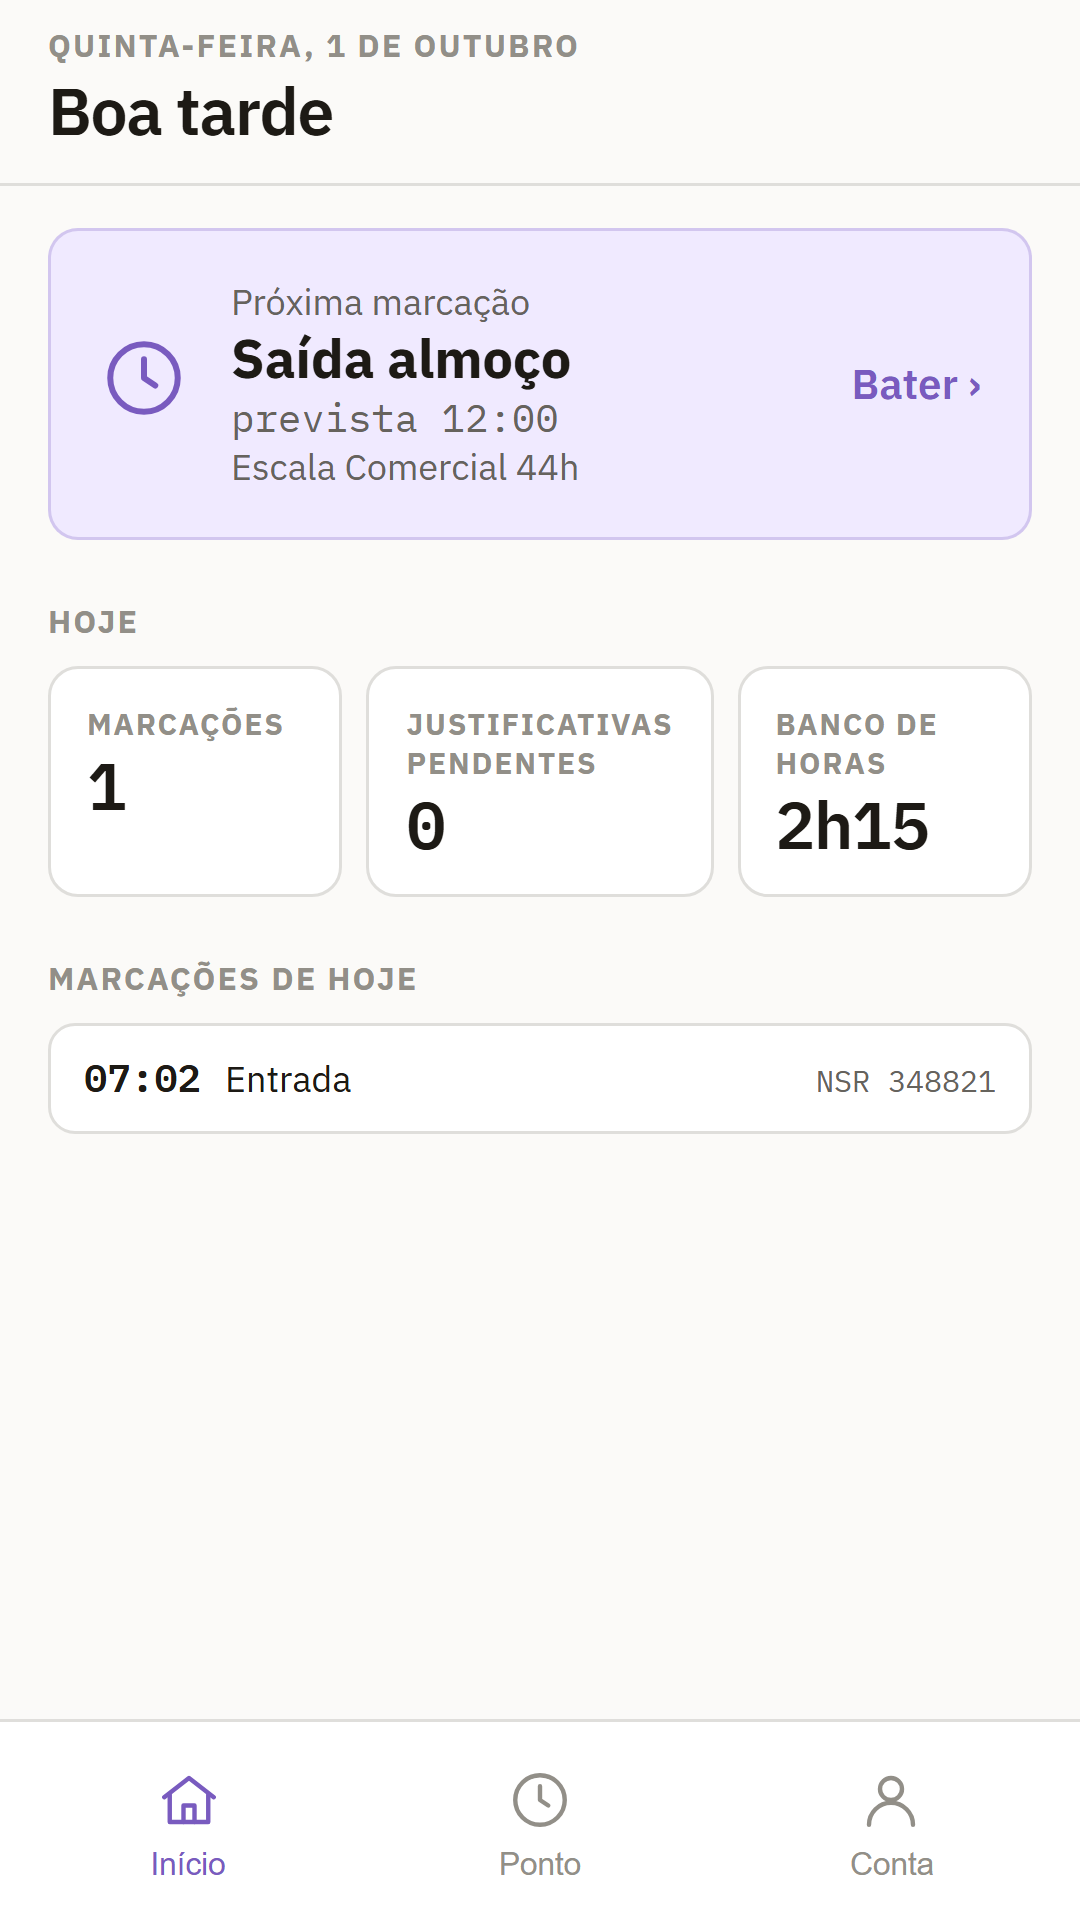
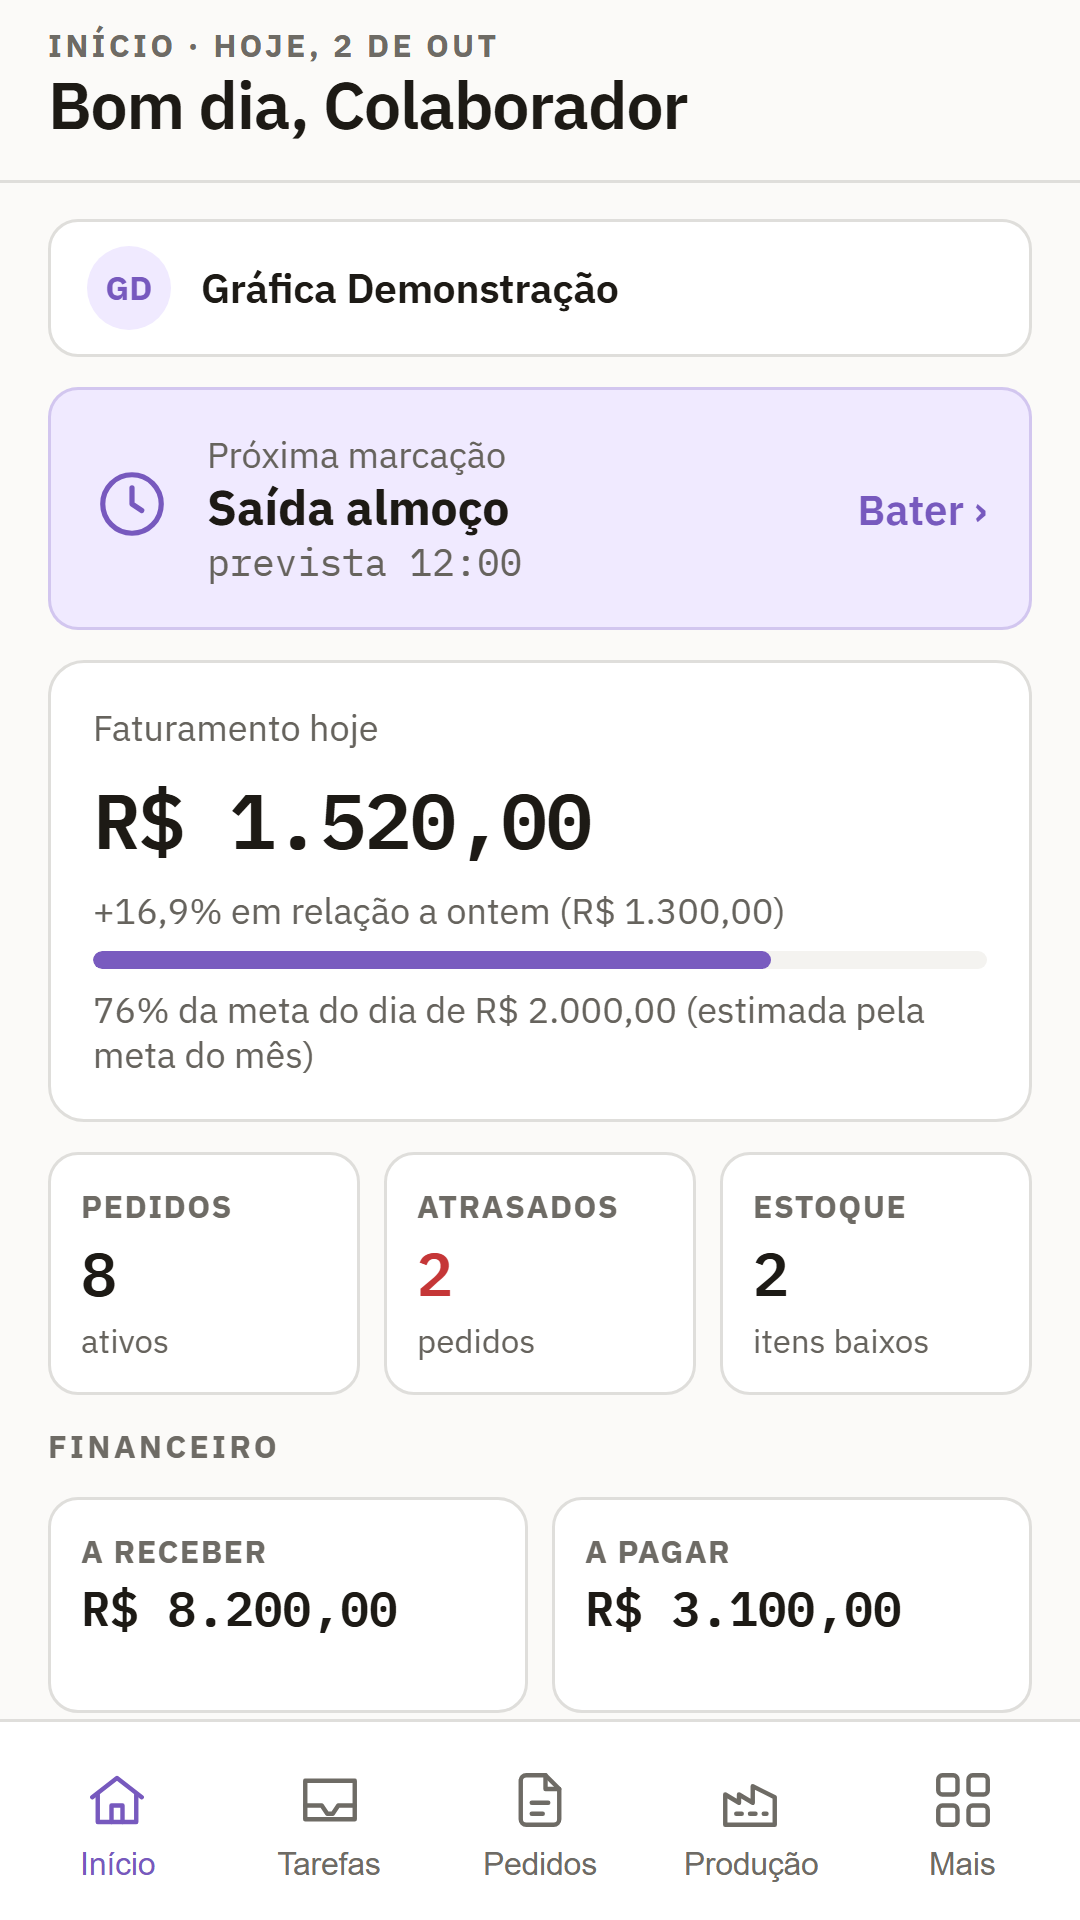
chore: screenshots de loja das 7 áreas da v1 (2º lote)

diff --git a/store-assets/screenshots/README.md b/store-assets/screenshots/README.md
@@ -1,11 +1,19 @@
-# Screenshots de loja — 1º lote (aprovado pela gestão do app em 2026-10-01)
+# Screenshots de loja — 2º lote: as 7 áreas da v1 (2026-10-02)
 
-- **Origem:** branch `fix/textos-loja` (fc43486, contém os PRs #6 e #7), `npm run build:demo`, capturado no
-  Chromium (Playwright) sobre o `www/` do build, com GPS simulado e dados fictícios do modo demonstração.
-- **Escondido só na captura:** a faixa "Modo demonstração" e a caixa de demonstração do Login (o build de loja não
-  mostra nenhuma das duas). A tela Conta ficou de fora (rodapé do build de demonstração).
-- **Tamanhos:** `android-1080x1920/` (telefone Play, 9:16) e `iphone69-1320x2868/` (iPhone 6.9"), PNG RGB sem alfa.
-- **Ordem na loja:** 00-login · 01-inicio · 02-bater-ponto · 03-meu-espelho · 04-justificar.
+- **Origem:** `main` com Tarefas (#13), contraste (#14), Pessoas (#17), Produção (#18) e Início (#19);
+  `npm run build:demo`, capturado no Chromium (Playwright) sobre o `www/` do build, tema claro, com GPS
+  simulado e dados fictícios do modo demonstração. Perfil ERP (todas as áreas), que é o que a ficha da loja
+  descreve (D9/D13).
+- **Escondido só na captura:** a faixa "Modo demonstração" e a caixa de demonstração do Login (o build de loja
+  não mostra nenhuma das duas). A tela Conta é gerada (`08-conta`) mas **não** vai à loja.
+- **Trava:** o script falha se o texto visível de uma tela de loja tiver "REP-P", "REP", "Portaria", "671",
+  "Modo demonstração" ou "dados simulados" (ressalva legal, ERP #8417; D9). Provada em 2026-10-02 rodando com a
+  faixa visível: parou em "Modo demonstração".
+- **Tamanhos:** `android-1080x1920/` (telefone Play, 9:16) e `iphone69-1320x2868/` (iPhone 6.9"), PNG RGB sem
+  alfa (tipo de cor 2, conferido).
+- **Ordem na loja** (8 = máximo da Play): 00-login · 01-inicio · 02-tarefas · 03-pedidos · 04-producao ·
+  05-pessoas · 06-bater-ponto · 07-meu-espelho. "Justificar", que estava no 1º lote, saiu para caber no limite.
 - **Refazer:** `node store-assets/screenshots/capturar.mjs <www> <saída> --sem-faixa` (usa o Playwright do repo
-  oimpresso.com; ajuste o caminho do `createRequire` se rodar de outro lugar). Ele gera também `05-conta`, que não vai à loja.
-- Sem "REP-P", "Portaria" nem "671" nas telas (ressalva legal, ERP #8417).
+  oimpresso.com; ajuste o caminho do `createRequire` se rodar de outro lugar).
+- **Atenção à ordem de envio:** o revisor entra como colaborador (`revisor.ponto`) e vê só Ponto · Mais (D6, #20).
+  As fotos mostram o app de quem tem o ERP; as notas de revisão explicam a diferença.
